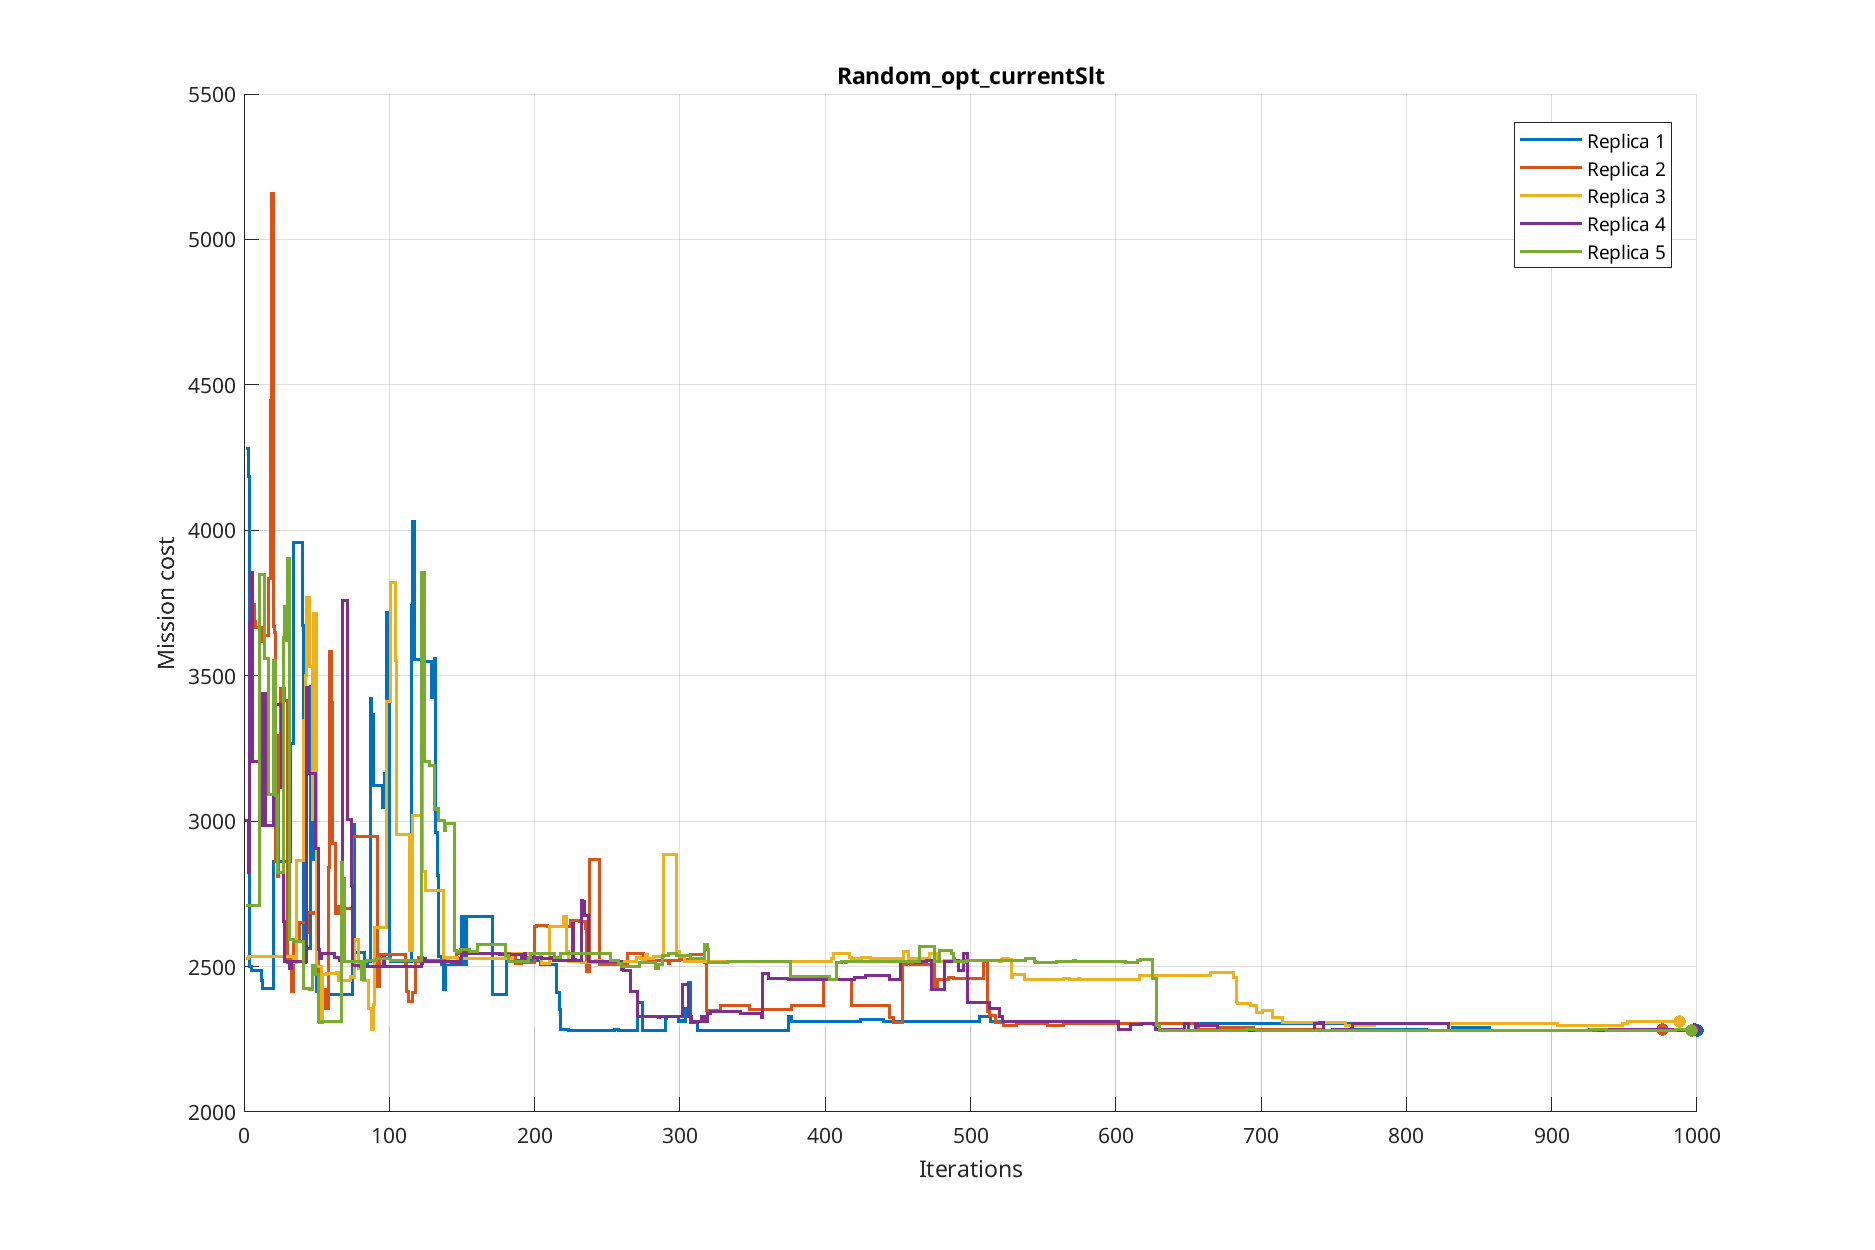
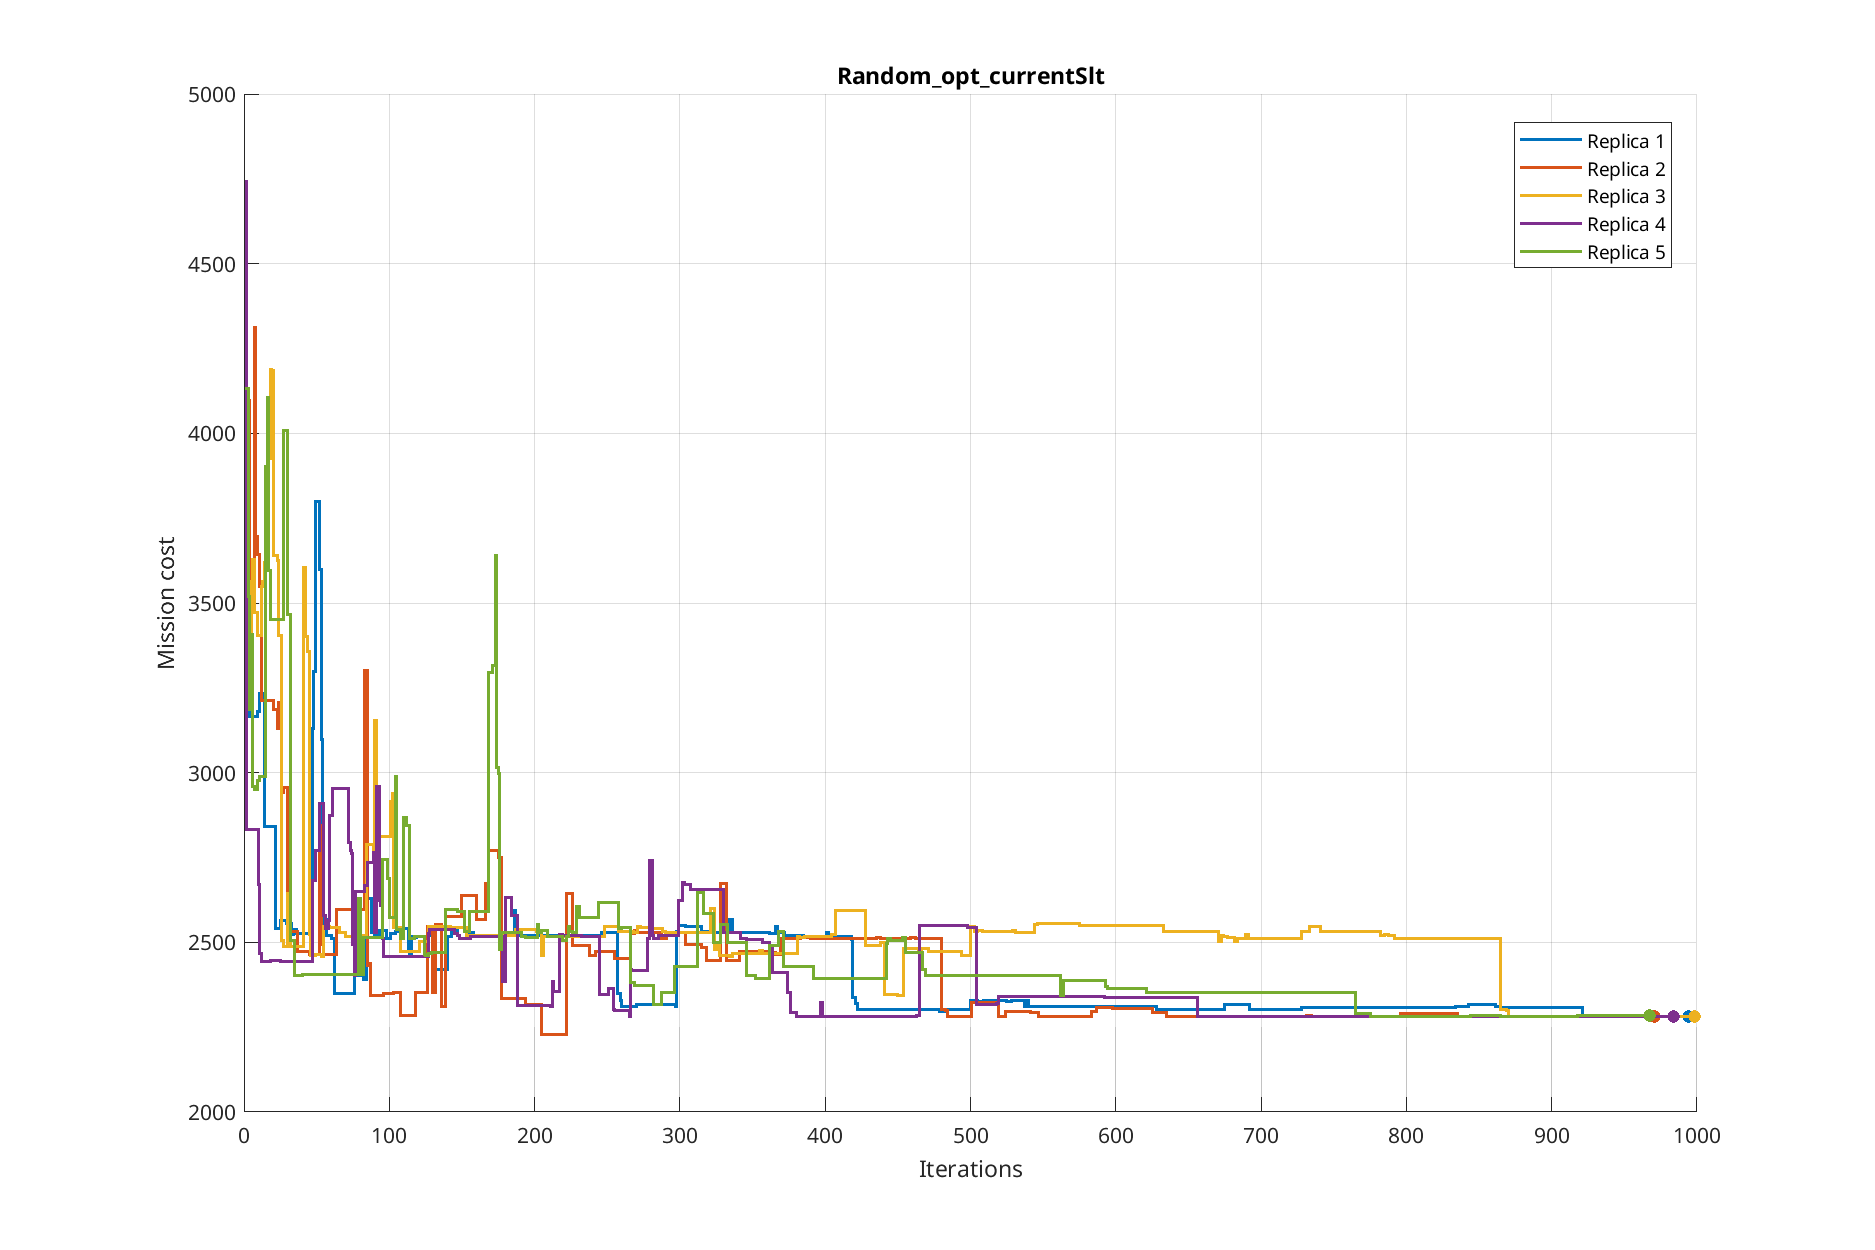
rng in InitialSlt

Changed region(s): [[0.0928, 0.156, 0.928, 0.8424]]

diff --git a/Results/InitialSolution.m b/Results/InitialSolution.m
@@ -61,7 +61,7 @@ BasicOpt.writeFile(result, nameFile)
 addFile(proj, nameFile);
 
 %% Random Initial Solution
-
+rng(12345);
 Destroyer = DesRandom(nTar, 100); % complete destruction
 [destroyedSet, tourInfos] = Destroyer.Destruction(initialSlts, initialStates);
 RandomRepair = RepRandom(nTar, 100); % try all of the destroyed target
@@ -98,7 +98,7 @@ RandomOpt.writeFile(result, nameFile)
 addFile(proj, nameFile);
 
 %% Simulation Initial Solution
-
+rng(12345);
 Destroyer = DesRandom(nTar, 100); % complete destruction
 [destroyedSet, tourInfos] = Destroyer.Destruction(initialSlts, initialStates);
 SimulationRepair = RepFarInsSim(nTar);
